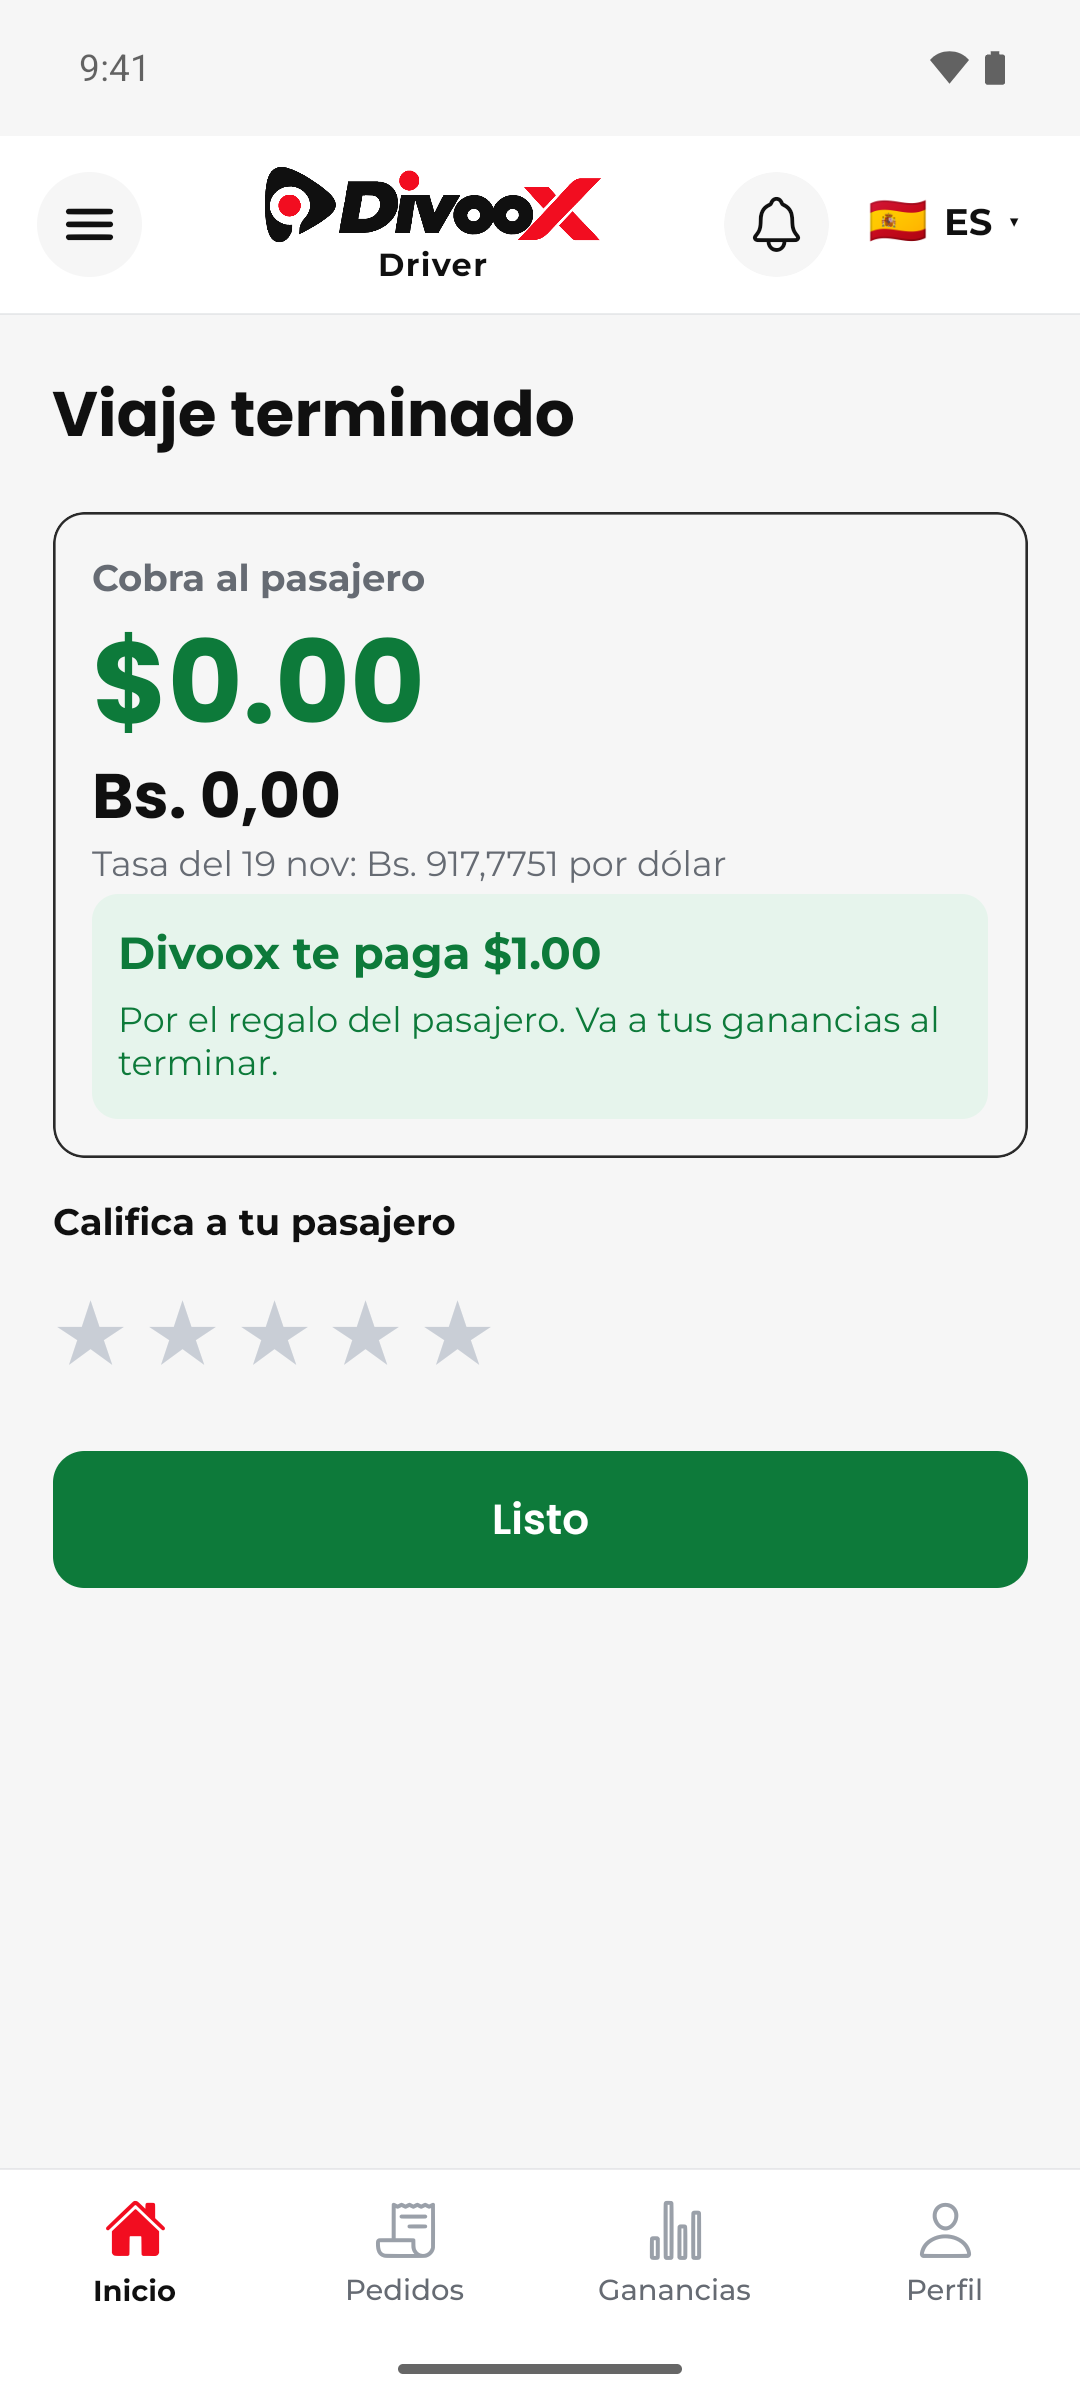
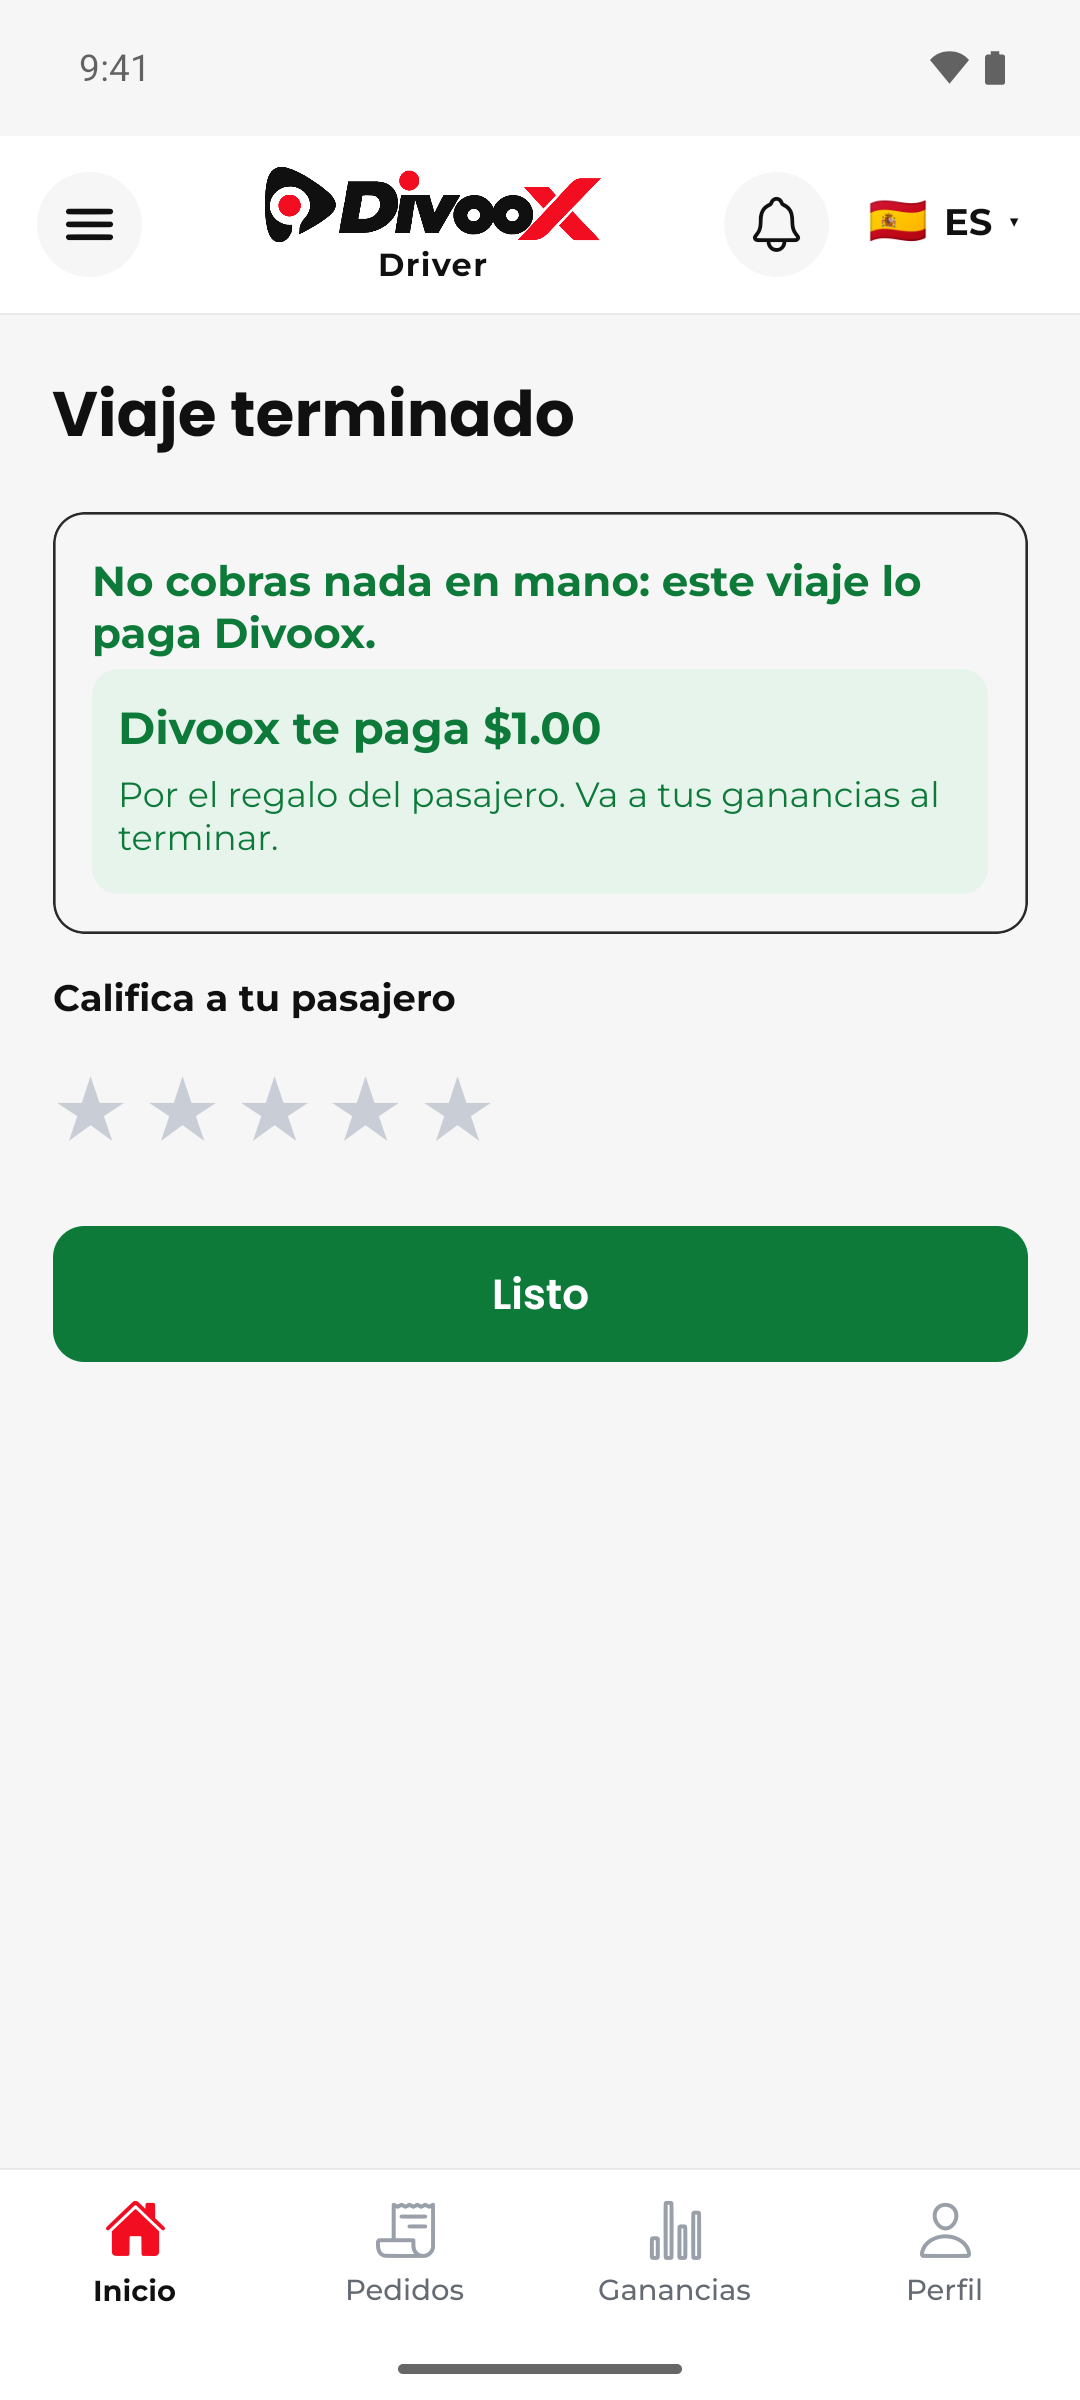
docs(comercial): oferta y cierre del viaje con regalo rehechos con Driver 0.1.59 («Regalo de Divoox para el pasajero: Divoox te paga» y cierre sin el cero, con recorrido real para que el regalo salga en verde); séptima pasada en el LEEME — todos los países, sin cambios de código

diff --git a/docs/videos/llegada-el-vigia/LEEME.md b/docs/videos/llegada-el-vigia/LEEME.md
@@ -175,3 +175,19 @@ Se rehicieron, con el mismo nombre, las del viaje con regalo: 04-oferta-entrante
 - 09: el cierre «Viaje terminado» de este viaje TODAVÍA muestra «Cobra al pasajero $0.00 / Bs. 0,00» en grande, con «Divoox te paga $1.00» debajo. El cambio no llegó a esa pantalla; cuando llegue hay que repetir solo la 09.
 - En 05 y 07 la franja de pausa dice «En pausa: Comida y Envíos en moto» (el conductor estaba conectado a tres servicios); en las del viaje en efectivo dice solo «Envíos en moto».
 - Regalo temporal BIENVENIDA3 (los dos anteriores ya estaban usados por María); los tres quedaron apagados.
+
+## Séptima pasada (corta): oferta y cierre del viaje con regalo (19 nov 2026)
+
+App Divoox Driver de pruebas, versión 0.1.59 (la del paquete 13, compilada desde b37ffb2). Mismo teléfono virtual, misma zona y mismas reglas que la quinta pasada. Se rehicieron solo dos, con el mismo nombre:
+
+- 04-oferta-entrante: «No cobras nada en mano: este viaje lo paga Divoox.» y debajo la frase nueva «Regalo de Divoox para el pasajero: Divoox te paga $1.00.» (ya no dice «el pasajero paga menos en mano»). Tomada con la cuenta atrás en 11 s, todavía en gris.
+- 09-viaje-terminado: ya no pinta «Cobra al pasajero $0.00 / Bs. 0,00»; dice «No cobras nada en mano: este viaje lo paga Divoox.» y la línea verde «Divoox te paga $1.00». Esto cierra el aviso de la sexta pasada.
+
+### Cómo se hizo lo del recorrido real (C-REGALO-VIAJE-REAL)
+
+- Desde hoy el regalo solo se acredita si el viaje fue real; si no, el cierre sale en ámbar «Divoox está revisando este regalo». Para que saliera verde, el conductor hizo el trayecto de verdad: después de «Iniciar», la ubicación del emulador se movió en catorce pasos de unos 50 m, uno cada 10 s (`adb emu geo fix`), de la recogida a un punto al norte y de ahí al destino, y se terminó en el destino con la ubicación recién mandada. Duró unos dos minutos y medio, más que los 141 s cotizados.
+- El servidor midió 1,4 km de recorrido contra 759 m cotizados; el regalo se acreditó al terminar, sin revisión (gastado, nada apartado).
+- La pasajera no mandó su ubicación (con menos de dos lecturas no cuenta).
+- Para guardar el código, la cuenta de la pasajera necesita un celular en su perfil y el aparato en la petición: se le puso un número ficticio y, al terminar, se le quitó y se le devolvió el permiso de SMS.
+- Regalo temporal BIENVENIDA4 (los tres anteriores ya estaban usados); los cuatro quedaron apagados.
+- Queda de la sexta pasada: el regalo de BIENVENIDA3 está «en revisión» (aquel viaje se hizo sin moverse) y conserva su dólar apartado hasta que el equipo lo apruebe o lo rechace. La salud del sitio de pruebas sigue en verde.
